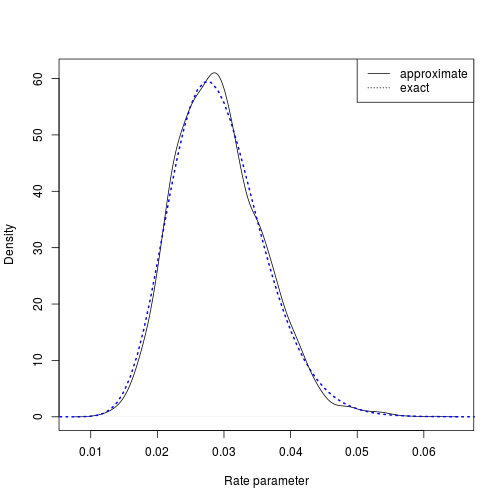
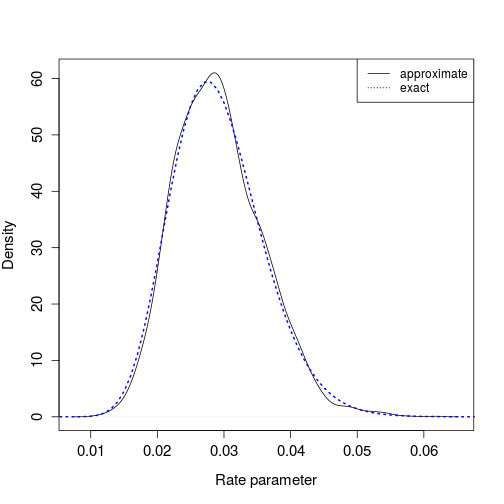
made text on plots larger

diff --git a/_site/Prius2/index.html b/_site/Prius2/index.html
@@ -109,7 +109,8 @@
 
 </span><span class="n">plot</span><span class="p">(</span><span class="n">density</span><span class="p">(</span><span class="n">exp_post</span><span class="o">$</span><span class="n">beta</span><span class="p">),</span><span class="w">
      </span><span class="n">main</span><span class="w"> </span><span class="o">=</span><span class="w"> </span><span class="s2">""</span><span class="p">,</span><span class="w"> 
-     </span><span class="n">xlab</span><span class="w"> </span><span class="o">=</span><span class="w"> </span><span class="s2">"Rate parameter"</span><span class="p">)</span><span class="w">
+     </span><span class="n">xlab</span><span class="w"> </span><span class="o">=</span><span class="w"> </span><span class="s2">"Rate parameter"</span><span class="p">,</span><span class="w"> 
+     </span><span class="n">cex.axis</span><span class="w"> </span><span class="o">=</span><span class="w"> </span><span class="m">1.25</span><span class="p">,</span><span class="w"> </span><span class="n">cex.lab</span><span class="w"> </span><span class="o">=</span><span class="w"> </span><span class="m">1.25</span><span class="p">)</span><span class="w">
 </span><span class="n">lines</span><span class="p">(</span><span class="n">xseq</span><span class="p">,</span><span class="w"> </span><span class="n">post_y</span><span class="p">,</span><span class="w"> </span><span class="n">col</span><span class="w"> </span><span class="o">=</span><span class="w"> </span><span class="s2">"blue"</span><span class="p">,</span><span class="w"> </span><span class="n">lty</span><span class="w"> </span><span class="o">=</span><span class="w"> </span><span class="m">3</span><span class="p">,</span><span class="w"> </span><span class="n">lwd</span><span class="w"> </span><span class="o">=</span><span class="w"> </span><span class="m">2</span><span class="p">)</span><span class="w">
 
 </span><span class="n">legend</span><span class="p">(</span><span class="s2">"topright"</span><span class="p">,</span><span class="w"> </span><span class="nf">c</span><span class="p">(</span><span class="s2">"approximate"</span><span class="p">,</span><span class="w"> </span><span class="s2">"exact"</span><span class="p">),</span><span class="w"> </span><span class="n">lty</span><span class="w"> </span><span class="o">=</span><span class="w"> </span><span class="nf">c</span><span class="p">(</span><span class="m">1</span><span class="p">,</span><span class="w"> </span><span class="m">3</span><span class="p">))</span><span class="w">
@@ -147,7 +148,8 @@ Not surprisingly, quite close! If we ran Stan multiple times, I’m sure it woul
 
 </span><span class="n">plot</span><span class="p">(</span><span class="n">density</span><span class="p">(</span><span class="n">exp_post</span><span class="o">$</span><span class="n">beta</span><span class="p">),</span><span class="w">
      </span><span class="n">main</span><span class="w"> </span><span class="o">=</span><span class="w"> </span><span class="s2">""</span><span class="p">,</span><span class="w"> 
-     </span><span class="n">xlab</span><span class="w"> </span><span class="o">=</span><span class="w"> </span><span class="s2">"Rate parameter"</span><span class="p">)</span><span class="w">
+     </span><span class="n">xlab</span><span class="w"> </span><span class="o">=</span><span class="w"> </span><span class="s2">"Rate parameter"</span><span class="p">,</span><span class="w">
+     </span><span class="n">cex.axis</span><span class="w"> </span><span class="o">=</span><span class="w"> </span><span class="m">1.25</span><span class="p">,</span><span class="w"> </span><span class="n">cex.lab</span><span class="w"> </span><span class="o">=</span><span class="w"> </span><span class="m">1.25</span><span class="p">)</span><span class="w">
 </span><span class="n">lines</span><span class="p">(</span><span class="n">xseq</span><span class="p">,</span><span class="w"> </span><span class="n">post_y</span><span class="p">,</span><span class="w"> </span><span class="n">col</span><span class="w"> </span><span class="o">=</span><span class="w"> </span><span class="s2">"blue"</span><span class="p">,</span><span class="w"> </span><span class="n">lty</span><span class="w"> </span><span class="o">=</span><span class="w"> </span><span class="m">3</span><span class="p">,</span><span class="w"> </span><span class="n">lwd</span><span class="w"> </span><span class="o">=</span><span class="w"> </span><span class="m">2</span><span class="p">)</span><span class="w">
 </span><span class="n">lines</span><span class="p">(</span><span class="n">xseq</span><span class="p">,</span><span class="w"> </span><span class="n">prox_y</span><span class="p">,</span><span class="w"> </span><span class="n">col</span><span class="w"> </span><span class="o">=</span><span class="w"> </span><span class="s2">"red"</span><span class="p">,</span><span class="w"> </span><span class="n">lty</span><span class="w"> </span><span class="o">=</span><span class="w"> </span><span class="m">3</span><span class="p">,</span><span class="w"> </span><span class="n">lwd</span><span class="w"> </span><span class="o">=</span><span class="w"> </span><span class="m">2</span><span class="p">)</span><span class="w">
 
@@ -196,7 +198,8 @@ Not surprisingly, quite close! If we ran Stan multiple times, I’m sure it woul
   </span><span class="n">geom_line</span><span class="p">(</span><span class="n">data</span><span class="w"> </span><span class="o">=</span><span class="w"> </span><span class="n">obs_df</span><span class="p">,</span><span class="w"> </span><span class="n">aes</span><span class="p">(</span><span class="n">x</span><span class="w"> </span><span class="o">=</span><span class="w"> </span><span class="n">x</span><span class="p">,</span><span class="w"> </span><span class="n">y</span><span class="w"> </span><span class="o">=</span><span class="w"> </span><span class="n">y</span><span class="p">))</span><span class="w"> </span><span class="o">+</span><span class="w">
   </span><span class="n">xlab</span><span class="p">(</span><span class="s2">"Rate"</span><span class="p">)</span><span class="w"> </span><span class="o">+</span><span class="w">
   </span><span class="n">ylab</span><span class="p">(</span><span class="s2">"Density"</span><span class="p">)</span><span class="w"> </span><span class="o">+</span><span class="w">
-  </span><span class="n">theme_minimal</span><span class="p">()</span><span class="w">
+  </span><span class="n">theme_minimal</span><span class="p">()</span><span class="w"> </span><span class="o">+</span><span class="w">
+  </span><span class="n">theme</span><span class="p">(</span><span class="n">text</span><span class="w"> </span><span class="o">=</span><span class="w"> </span><span class="n">element_text</span><span class="p">(</span><span class="n">size</span><span class="o">=</span><span class="m">20</span><span class="p">))</span><span class="w">
 </span></code></pre>
 </div>
 

diff --git a/_posts/2017-09-03-Prius2.md b/_posts/2017-09-03-Prius2.md
@@ -58,7 +58,8 @@ post_y <- exp_exact(
 
 plot(density(exp_post$beta),
      main = "", 
-     xlab = "Rate parameter")
+     xlab = "Rate parameter", 
+     cex.axis = 1.25, cex.lab = 1.25)
 lines(xseq, post_y, col = "blue", lty = 3, lwd = 2)
 
 legend("topright", c("approximate", "exact"), lty = c(1, 3))
@@ -107,7 +108,8 @@ prox_y <- dgamma(
 
 plot(density(exp_post$beta),
      main = "", 
-     xlab = "Rate parameter")
+     xlab = "Rate parameter",
+     cex.axis = 1.25, cex.lab = 1.25)
 lines(xseq, post_y, col = "blue", lty = 3, lwd = 2)
 lines(xseq, prox_y, col = "red", lty = 3, lwd = 2)
 
@@ -156,7 +158,8 @@ ggplot() +
   geom_line(data = obs_df, aes(x = x, y = y)) +
   xlab("Rate") +
   ylab("Density") +
-  theme_minimal()
+  theme_minimal() +
+  theme(text = element_text(size=20))
 ```
 
 <img src="/figure/source/2017-09-03-Prius2/unnamed-chunk-5-1.png" title="plot of chunk unnamed-chunk-5" alt="plot of chunk unnamed-chunk-5" style="display: block; margin: auto;" />
